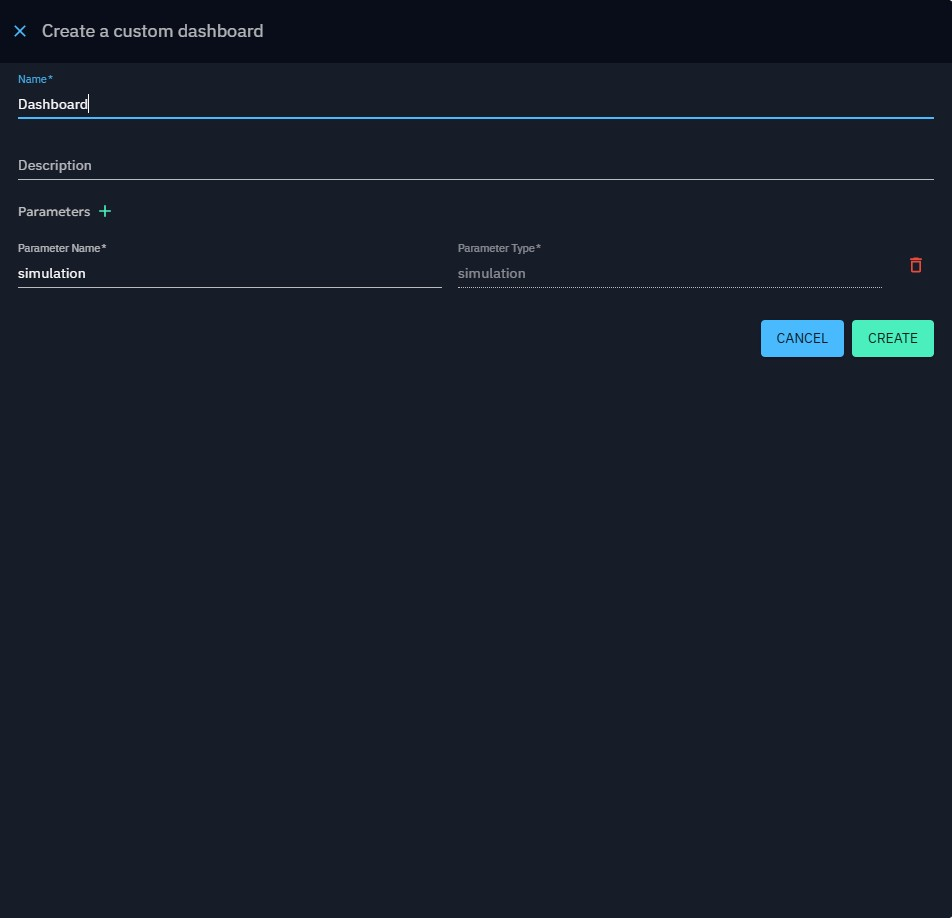
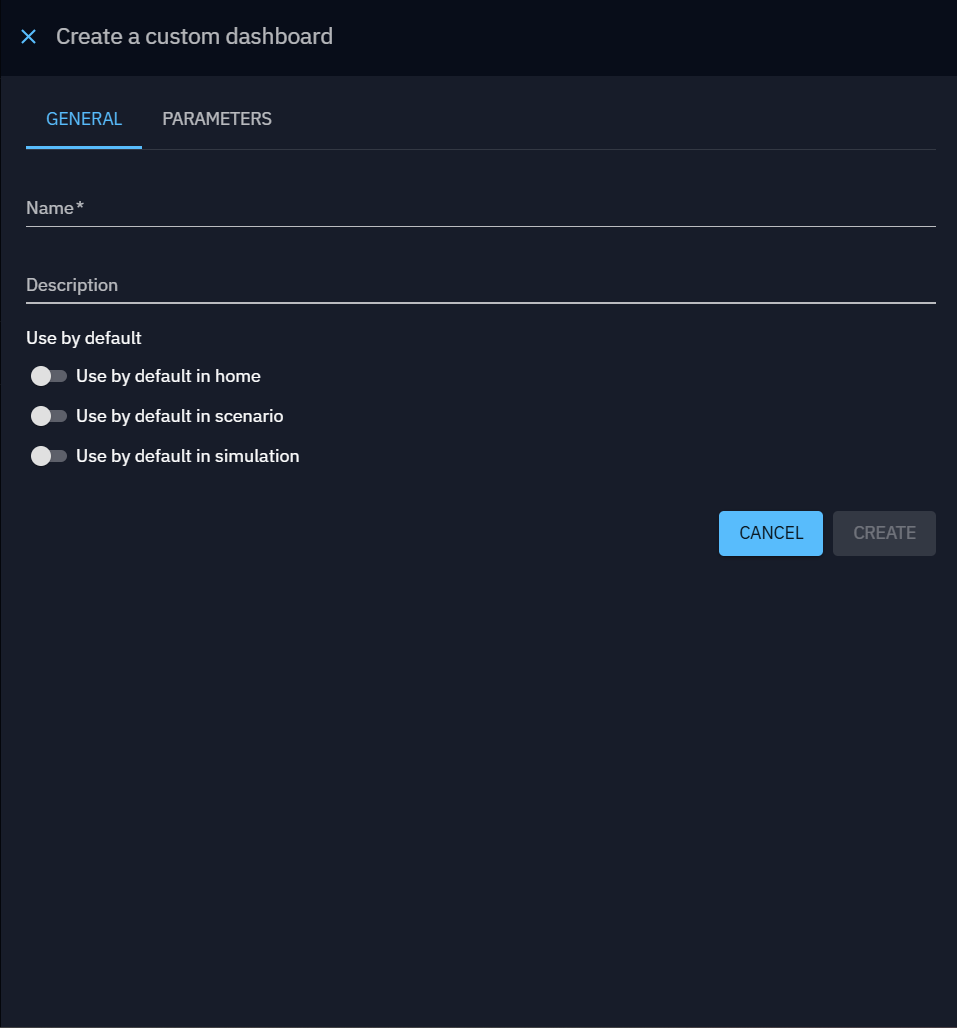
[docs] add default dashboard info

Changed region(s): [[0.0, 0.0305, 0.9748, 0.4575], [0.7311, 0.488, 0.9748, 0.549], [0.792, 0.3355, 1.0, 0.3965]]

diff --git a/docs/usage/dashboards/custom-dashboards/custom-dashboards.md b/docs/usage/dashboards/custom-dashboards/custom-dashboards.md
@@ -21,7 +21,10 @@ With the "+" button on the bottom right corner, you can create a custom dashboar
 
 ![Create a custom dashboard](assets/create-custom-dashboard.png)
 
-The field "Parameters" is used for adding a dynamic parameter for the widgets. For now, only the param "simulation" is implemented.
+In the General tab, you can set the name and description, and choose to use this dashboard as the default for the home page, scenarios, or simulations.
+To learn more about default custom dashboards, see [default custom dashboard](custom-dashboards.md#default-custom-dashboard).
+
+The tab "Parameters" is used for adding a dynamic parameter for the widgets. For now, only the param "simulation" is implemented.
 It means that if you add this parameter to your dashboard, you can choose this parameter in your widget and the widget will be calculated according to the simulation you will have selected.
 See [widgets](../widgets/widgets.md) or [simulations](../../simulation.md) for more details.
 
@@ -33,6 +36,29 @@ right corner based on the importance of the information, enabling adaptation to 
 technical flexibility ensures a fluid, visually optimized user experience.
 
 ![Dashboard overview](assets/dashboard-overview.png)
+
+## Default custom dashboard
+**Setting Default Custom Dashboards**:     
+
+You can set a custom dashboard as the default for the home page, scenarios, or simulations in two ways:   
+
+- Check the corresponding box when creating or updating a custom dashboard   
+- Configure it from the Parameters page   
+
+![Set custom dashboard](assets/set_custom_dashboard.png)
+
+**How Default Dashboards Work**:   
+
+- Home Page: Replaces the standard home page when you click "Home" in the left menu   
+- Scenarios: Becomes the default Analysis tab for all newly created scenarios   
+- Simulations: Becomes the default Analysis tab for all newly created simulations  
+
+**Important Notes**:   
+For scenarios and simulations, this only sets the initial default. You can change the dashboard for each individual scenario or simulation after creation (with proper permissions) from the analysis tab.   
+![Select dashboard](assets/select_new_dashboard.png)   
+
+You cannot delete a custom dashboard that is currently set as the default home dashboard
+
 
 ## Time filters
 
